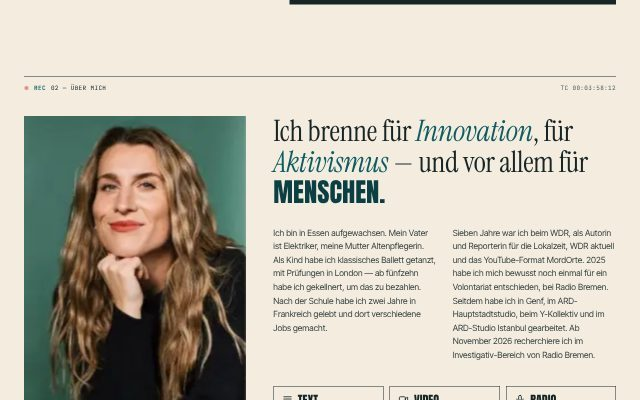
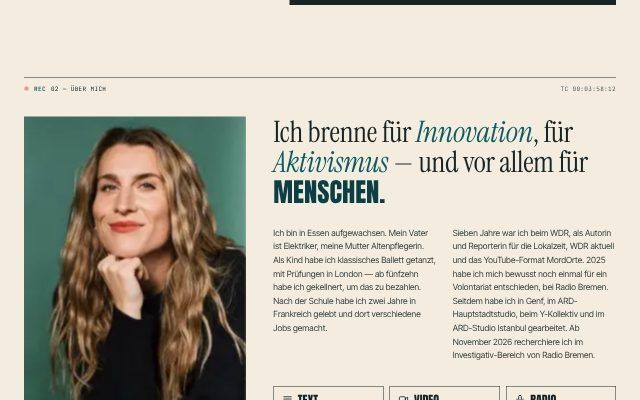
Antonia Rüller: Über mich Feature, Crossmedial und Sprachen unter den Textspalten
Claude-Session: https://claude.ai/code/session_01RYLcizMBQ5BQguX1G1CHxx

diff --git a/sites/antoniarueller/assets/stile/about-feature.css b/sites/antoniarueller/assets/stile/about-feature.css
@@ -8,7 +8,8 @@
 .af-ph{position:relative;margin:0}
 .af-img{display:block;width:100%;height:auto;aspect-ratio:4/5;object-fit:cover;border:1px solid var(--ink)}
 .af-ph .ar-onair{display:none}
-.af-band{margin-top:clamp(28px,4vw,52px);border-top:4px double var(--ink);padding-top:6px}
+.af-left{min-width:0}
+.af-band{margin-top:clamp(24px,3vw,40px);border-top:4px double var(--ink);padding-top:6px}
 .af-band .about-block{margin:18px 0 0;padding-top:0}
 .af-band .about-block+.about-block{border-top:1px solid var(--line);padding-top:16px}
 @media (max-width:860px){.af{grid-template-columns:1fr}.af-ph{order:-1}.af-cols{columns:1}}

diff --git a/sites/antoniarueller/templates/sections/stile/about-feature.php b/sites/antoniarueller/templates/sections/stile/about-feature.php
@@ -4,11 +4,13 @@
 <?= sec_head($no['about'], $sec['about_label'], $about['right'], '40px') ?>
 <?php if ($about['headline'] !== ''): ?><p class="af-h"><?= mk($about['headline']) ?></p><?php endif; ?>
 <div class="af<?= upload_url($about['portrait']) === '' ? ' no-ph' : '' ?>">
+<div class="af-left">
 <div class="af-cols"><?php foreach ([$about['text1'], $about['text2']] as $t): if ($t === '') { continue; } ?><p><?= nl2br(e($t)) ?></p><?php endforeach; ?></div>
-<?php if (upload_url($about['portrait']) !== ''): ?><figure class="af-ph"><?= about_photo_html($about, 'af-img', '(max-width: 760px) 100vw, 380px') ?></figure><?php endif; ?>
-</div>
 <div class="af-band">
 <?php foreach ($subOrder['about'] as $subId): if ($sub[$subId]) { include __DIR__ . '/../about-' . $subId . '.php'; } endforeach; ?>
+</div>
+</div>
+<?php if (upload_url($about['portrait']) !== ''): ?><figure class="af-ph"><?= about_photo_html($about, 'af-img', '(max-width: 760px) 100vw, 380px') ?></figure><?php endif; ?>
 </div>
 </section>
 <?php endif; ?>
